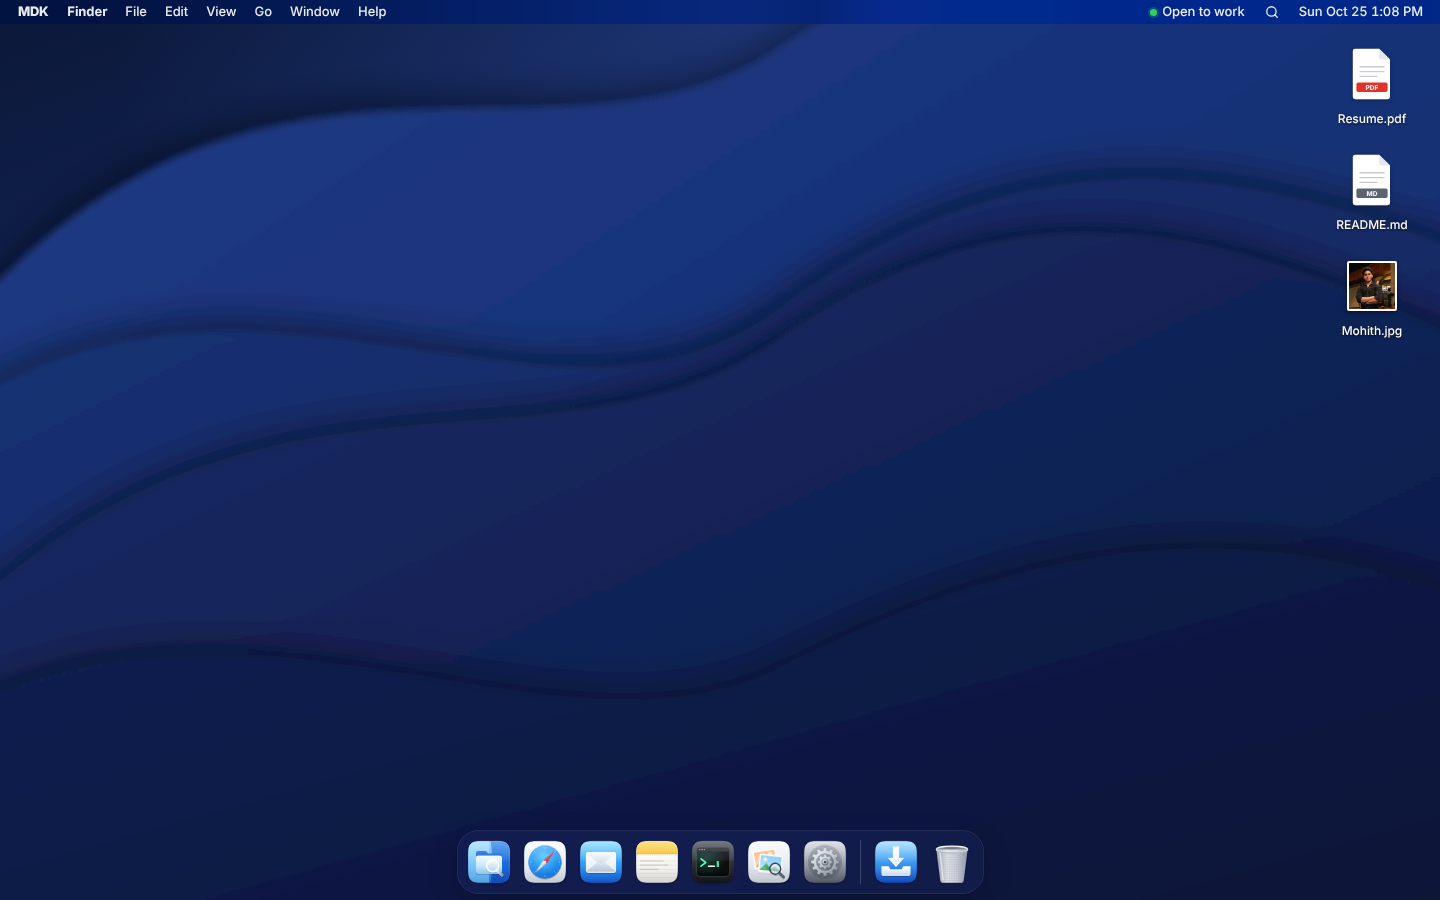
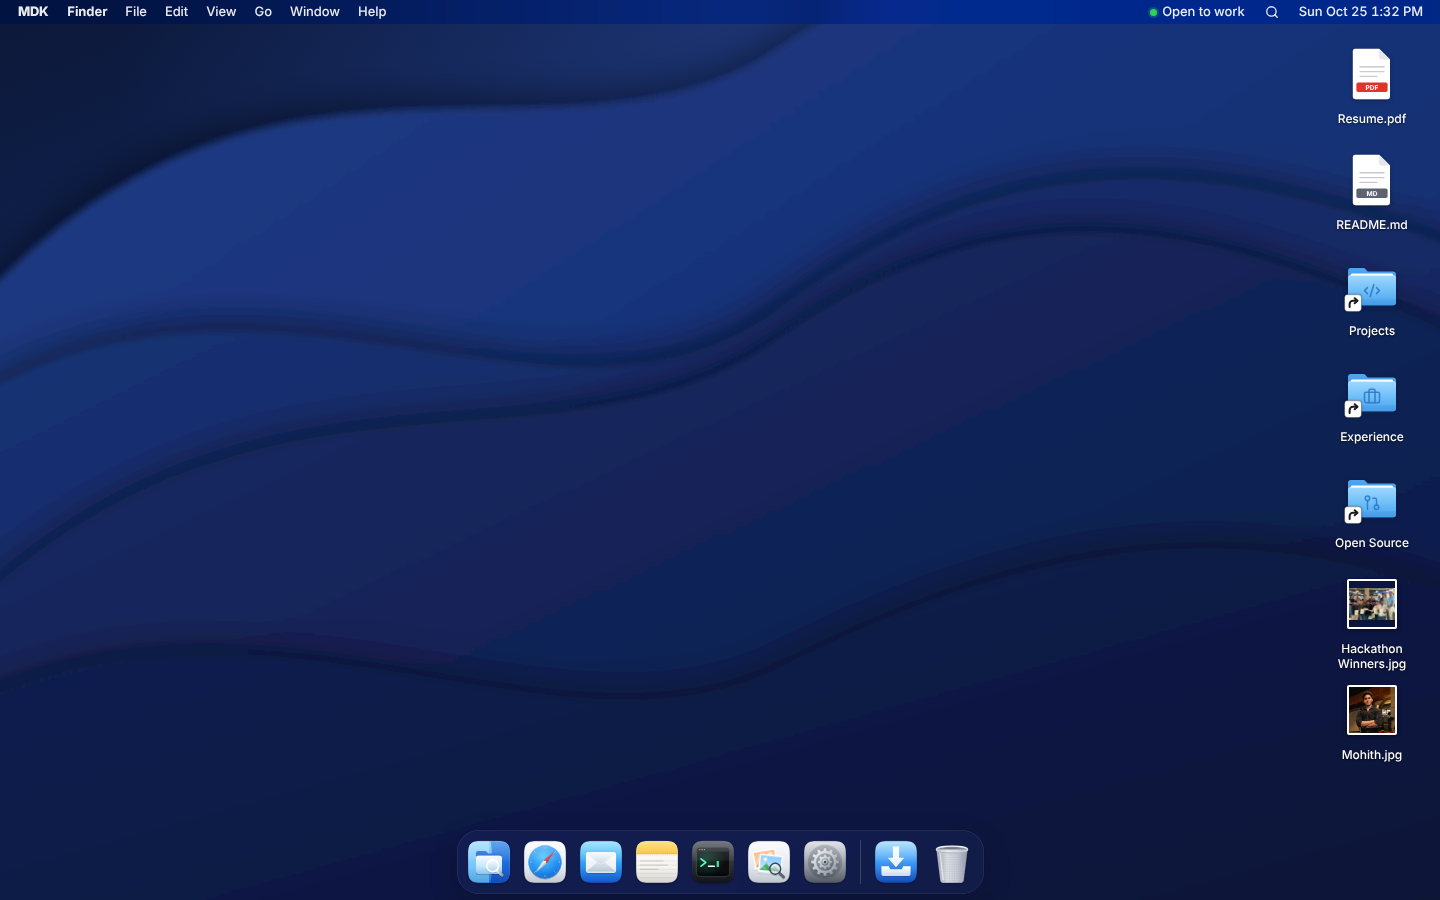
Desktop folder aliases and the HACK-AI winners photo
- Alias support in the virtual filesystem (kind 'alias'): curved-arrow
  badge, opens/navigates to the target in Finder, Show Original, resolves
  in Terminal paths and the iOS Files app; build validates alias targets
- Desktop now shows Projects, Experience and Open Source aliases
- Hackathon Winners.jpg on the Desktop and in Certificates, in the HACK-AI
  note and certificate, and on /simple

Claude-Session: https://claude.ai/code/session_01W6L8NogTVnNVLVeJd6ogRW

diff --git a/src/ui/FileIcon.tsx b/src/ui/FileIcon.tsx
@@ -1,8 +1,30 @@
 import type { FSNode } from '@/content/schema'
-import { iconFor, publicUrl } from '@/os/fs'
+import { iconFor, publicUrl, resolveAlias } from '@/os/fs'
+import { vfs } from '@/os/vfs'
 
-/** Icon for a filesystem node; images show a thumbnail like Finder does. */
+/** The small curved arrow macOS puts on alias icons. */
+function AliasBadge({ size }: { size: number }) {
+  const s = Math.max(10, Math.round(size * 0.3))
+  return (
+    <svg className="alias-badge" width={s} height={s} viewBox="0 0 16 16" aria-hidden="true">
+      <rect x="0.5" y="0.5" width="15" height="15" rx="3" fill="#fff" stroke="rgb(0 0 0 / .25)" />
+      <path d="M5 11.5V9a3 3 0 0 1 3-3h3.5" fill="none" stroke="#1d1d1f" strokeWidth="1.8" strokeLinecap="round" />
+      <path d="M9.5 3.8 12 6l-2.5 2.2" fill="none" stroke="#1d1d1f" strokeWidth="1.8" strokeLinecap="round" strokeLinejoin="round" />
+    </svg>
+  )
+}
+
+/** Icon for a filesystem node; images show a thumbnail and aliases get the arrow badge. */
 export function FileIcon({ node, size = 64, className = '' }: { node: FSNode; size?: number; className?: string }) {
+  const target = resolveAlias(vfs, node)
+  if (target && target !== node) {
+    return (
+      <span className="alias-icon" style={{ width: size, height: size }}>
+        <FileIcon node={target} size={size} className={className} />
+        <AliasBadge size={size} />
+      </span>
+    )
+  }
   if (node.type === 'file' && node.kind === 'image') {
     return (
       <img

diff --git a/src/os/fs.ts b/src/os/fs.ts
@@ -29,6 +29,12 @@ export const isFolder = (n: FSNode | undefined): n is FSFolder => n?.type === 'f
 export const isFile = (n: FSNode | undefined): n is FSFile => n?.type === 'file'
 export const isHidden = (n: FSNode) => n.name.startsWith('.')
 
+/** Follows an alias to the node it points at (other nodes are returned as-is). */
+export function resolveAlias(ix: FSIndex, node: FSNode | undefined): FSNode | undefined {
+  if (node?.type === 'file' && node.kind === 'alias') return ix.byId.get(node.source)
+  return node
+}
+
 /** Nodes from the root down to (and including) `id`. */
 export function ancestry(ix: FSIndex, id: string): FSNode[] {
   const out: FSNode[] = []
@@ -83,7 +89,7 @@ export function resolvePath(ix: FSIndex, cwdId: string, input: string): FSNode |
       continue
     }
     if (!isFolder(cur)) return undefined
-    cur = childNamed(cur, part)
+    cur = resolveAlias(ix, childNamed(cur, part))
   }
   return cur
 }
@@ -109,6 +115,8 @@ export function kindLabel(n: FSNode): string {
       return 'Web location'
     case 'app-shortcut':
       return 'Application'
+    case 'alias':
+      return 'Alias'
   }
 }
 
@@ -192,6 +200,8 @@ export function iconFor(n: FSNode): string {
       return '/icons/doc-link.svg'
     case 'app-shortcut':
       return `/icons/${n.opensWith}.svg`
+    case 'alias':
+      return '/icons/folder.svg'
   }
 }
 

diff --git a/src/content/schema.ts b/src/content/schema.ts
@@ -29,7 +29,8 @@ export type FSFile = {
   type: 'file'
   id: string
   name: string
-  kind: 'pdf' | 'md' | 'image' | 'video' | 'link' | 'app-shortcut'
+  /** `alias`: a macOS-style shortcut; `source` is the id of the node it points to. */
+  kind: 'pdf' | 'md' | 'image' | 'video' | 'link' | 'app-shortcut' | 'alias'
   source: string
   opensWith: AppId
   modified: string
@@ -42,7 +43,7 @@ export const fsFileSchema = z.object({
   type: z.literal('file'),
   id: z.string().min(1),
   name: z.string().min(1),
-  kind: z.enum(['pdf', 'md', 'image', 'video', 'link', 'app-shortcut']),
+  kind: z.enum(['pdf', 'md', 'image', 'video', 'link', 'app-shortcut', 'alias']),
   source: z.string().min(1),
   opensWith: z.enum(APP_IDS),
   modified: isoDate,
@@ -100,7 +101,7 @@ export const profileSchema = z.object({
       project: z.string().optional(),
     }),
   ),
-  achievements: z.array(z.object({ id: z.string(), title: z.string(), detail: z.string() })),
+  achievements: z.array(z.object({ id: z.string(), title: z.string(), detail: z.string(), photo: z.string().optional() })),
 })
 
 export const skillsSchema = z.object({

diff --git a/src/apps/finder/FinderView.tsx b/src/apps/finder/FinderView.tsx
@@ -18,7 +18,7 @@ import {
 } from 'lucide-react'
 import type { FSNode } from '@/content/schema'
 import { openNode, originOf } from '@/os/actions'
-import { ancestry, DESKTOP_ID, HOME_ID, kindLabel, latestModified, ROOT_ID, type SortKey } from '@/os/fs'
+import { ancestry, DESKTOP_ID, HOME_ID, kindLabel, latestModified, resolveAlias, ROOT_ID, type SortKey } from '@/os/fs'
 import { useFs } from '@/os/stores/fs'
 import { useUi } from '@/os/stores/ui'
 import { useWindows } from '@/os/stores/windows'
@@ -70,7 +70,9 @@ export function FinderView({ win, focused, fixedFolder, toolbarExtra, emptyState
     if (!fixedFolder) setTitle(win.id, loc.folderId === HOME_ID ? 'mohith' : (loc.folder?.name ?? 'Finder'))
   }, [fixedFolder, loc.folderId, loc.folder?.name, setTitle, win.id])
 
-  const open = (n: FSNode, el?: Element | null) => {
+  const open = (node: FSNode, el?: Element | null) => {
+    // An alias to a folder navigates in place, like macOS.
+    const n = resolveAlias(vfs, node) ?? node
     if (n.type === 'folder' && n.id !== 'trash') {
       setQuery('')
       loc.go(n.id)

diff --git a/tests/unit/fs.test.ts b/tests/unit/fs.test.ts
@@ -8,10 +8,12 @@ import {
   displayPath,
   forward,
   HOME_ID,
+  kindLabel,
   listChildren,
   navigate,
   newHistory,
   pathOf,
+  resolveAlias,
   resolvePath,
   sortNodes,
 } from '@/os/fs'
@@ -37,6 +39,14 @@ describe('virtual filesystem', () => {
     expect(resolvePath(vfs, HOME_ID, 'Nope')).toBeUndefined()
     expect(resolvePath(vfs, HOME_ID, 'Desktop/Resume.pdf/x')).toBeUndefined()
     expect(resolvePath(vfs, 'root', '..')?.id).toBe('root')
+  })
+
+  it('follows desktop aliases to their folders', () => {
+    expect(resolvePath(vfs, HOME_ID, 'Desktop/Projects')?.id).toBe('projects')
+    expect(resolvePath(vfs, HOME_ID, 'Desktop/Open Source/REA/Pull Request.webloc')?.id).toBe('oss-rea-pr')
+    expect(resolveAlias(vfs, vfs.byId.get('desktop-alias-experience'))?.id).toBe('experience')
+    expect(resolveAlias(vfs, vfs.byId.get('resume'))?.id).toBe('resume')
+    expect(kindLabel(vfs.byId.get('desktop-alias-projects')!)).toBe('Alias')
   })
 
   it('hides dotfiles unless asked', () => {

diff --git a/tests/unit/content.test.ts b/tests/unit/content.test.ts
@@ -25,7 +25,7 @@ describe('content', () => {
 
   it('puts the resume, a README and a photo on the Desktop', () => {
     const names = listChildren(vfs, 'desktop').map((n) => n.name)
-    expect(names).toEqual(expect.arrayContaining(['Resume.pdf', 'README.md']))
+    expect(names).toEqual(['Resume.pdf', 'README.md', 'Projects', 'Experience', 'Open Source', 'Hackathon Winners.jpg', 'Mohith.jpg'])
   })
 
   it('carries every resume fact that the spec maps', () => {
@@ -63,6 +63,8 @@ describe('search', () => {
     expect(search(index, 'termin')[0]?.title).toBe('Terminal')
     expect(search(index, 'resume').some((h) => h.title === 'Resume.pdf')).toBe(true)
     expect(search(index, 'maersk')[0]?.category).toBe('Experience')
+    expect(search(index, 'hackathon').some((h) => h.title === 'Hackathon Winners.jpg')).toBe(true)
+    expect(search(index, 'projects').filter((h) => h.title === 'Projects')).toHaveLength(1)
     expect(search(index, '')).toEqual([])
   })
 })

diff --git a/src/apps/finder/FilesIOS.tsx b/src/apps/finder/FilesIOS.tsx
@@ -1,7 +1,7 @@
 'use client'
 import { ChevronRight } from 'lucide-react'
 import { useState } from 'react'
-import { HOME_ID, kindLabel, listChildren } from '@/os/fs'
+import { HOME_ID, kindLabel, listChildren, resolveAlias } from '@/os/fs'
 import { vfs } from '@/os/vfs'
 import { FileIcon } from '@/ui/FileIcon'
 import { FilePreview } from '@/ui/FilePreview'
@@ -38,6 +38,12 @@ export default function FilesIOS() {
             <button
               className="ios-row"
               onClick={() => {
+                const t = resolveAlias(vfs, n)
+                if (t && t !== n) {
+                  if (t.type === 'folder') loc.go(t.id)
+                  else setFileId(t.id)
+                  return
+                }
                 if (n.type === 'folder') loc.go(n.id)
                 else if (n.kind === 'link') window.open(n.source, '_blank', 'noopener,noreferrer')
                 else setFileId(n.id)

diff --git a/tests/e2e/desktop.spec.ts b/tests/e2e/desktop.spec.ts
@@ -40,6 +40,17 @@ test('navigates Finder to a project and opens its README', async ({ page }) => {
   await expect(page.getByTestId('menubar-app-name')).toHaveText('TextEdit')
 })
 
+test('desktop aliases open their folders in Finder', async ({ page }) => {
+  await boot(page)
+  await page.getByTestId('desktop-icon-desktop-alias-projects').dblclick()
+  const finder = page.locator('[data-app="finder"]')
+  await expect(finder.getByTestId('finder-title')).toHaveText('Projects')
+  await expect(finder.getByTestId('finder-item-project-provenance')).toBeVisible()
+  await page.getByTestId('desktop-icon-hackathon-photo').click()
+  await page.keyboard.press('Space')
+  await expect(page.getByTestId('quicklook').getByRole('img', { name: 'Hackathon Winners.jpg' })).toBeVisible()
+})
+
 test('drags and resizes a window', async ({ page }) => {
   await boot(page)
   await page.getByTestId('dock-finder').click()

diff --git a/scripts/build-content.ts b/scripts/build-content.ts
@@ -75,6 +75,15 @@ function walk(node: FSNode, path: string) {
 }
 if (tree) walk(tree, '')
 
+// Aliases must point at a real node (checked after the walk, once all ids are known).
+const aliases: Array<{ path: string; target: string }> = []
+function collectAliases(node: FSNode, path: string) {
+  if (node.type === 'folder') node.children.forEach((c) => collectAliases(c, `${path}/${c.name}`))
+  else if (node.kind === 'alias') aliases.push({ path, target: node.source })
+}
+if (tree) collectAliases(tree, '')
+for (const a of aliases) if (!ids.has(a.target)) errors.push(`${a.path}: alias points at unknown id "${a.target}"`)
+
 if (errors.length) {
   console.error(`Content validation failed:\n\n${errors.join('\n\n')}`)
   process.exit(1)

diff --git a/src/shells/macos/Desktop.tsx b/src/shells/macos/Desktop.tsx
@@ -26,6 +26,11 @@ function defaultSlot(index: number, areaW: number, areaH: number) {
 
 export function fileMenu(node: FSNode, origin?: { x: number; y: number }): MenuEntry[] {
   const items: MenuEntry[] = [{ label: 'Open', action: () => openNode(node.id, origin) }]
+  if (node.type === 'file' && node.kind === 'alias') {
+    const parent = vfs.parent.get(node.source)
+    items.push({ label: 'Show Original', shortcut: '⌘R', disabled: !parent, action: () => parent && openNode(parent) })
+    return items
+  }
   if (node.type === 'file') {
     const alternatives = Object.values(APPS).filter(
       (a) => a.id !== node.opensWith && node.kind !== 'app-shortcut' && (a.fileTypes as string[]).includes(node.kind),

diff --git a/src/apps/terminal/commands.ts b/src/apps/terminal/commands.ts
@@ -185,7 +185,7 @@ export function runCommand(line: string, ctx: CommandContext): CommandResult {
       if (flags.includes('l')) {
         return {
           output: items.map((n) => ({
-            text: `${n.type === 'folder' ? 'd' : '-'}rw-r--r--  ${(n.type === 'file' ? (n.size ?? '—') : '—').padStart(7)}  ${
+            text: `${n.type === 'folder' ? 'd' : n.kind === 'alias' ? 'l' : '-'}rw-r--r--  ${(n.type === 'file' ? (n.size ?? '—') : '—').padStart(7)}  ${
               n.type === 'file' ? n.modified : '          '
             }  ${n.name}${n.type === 'folder' ? '/' : ''}`,
             tone: n.type === 'folder' ? ('dir' as const) : undefined,

diff --git a/src/shells/macos/QuickLook.tsx b/src/shells/macos/QuickLook.tsx
@@ -6,6 +6,7 @@ import { APPS } from '@/os/apps-meta'
 import { openNode } from '@/os/actions'
 import { useReducedMotion } from '@/os/hooks'
 import { useUi } from '@/os/stores/ui'
+import { resolveAlias } from '@/os/fs'
 import { vfs } from '@/os/vfs'
 import { FilePreview } from '@/ui/FilePreview'
 
@@ -13,7 +14,7 @@ export function QuickLook() {
   const id = useUi((s) => s.quickLookId)
   const setQuickLook = useUi((s) => s.setQuickLook)
   const reduced = useReducedMotion()
-  const node = id ? vfs.byId.get(id) : undefined
+  const node = id ? resolveAlias(vfs, vfs.byId.get(id)) : undefined
 
   useEffect(() => {
     if (!id) return
